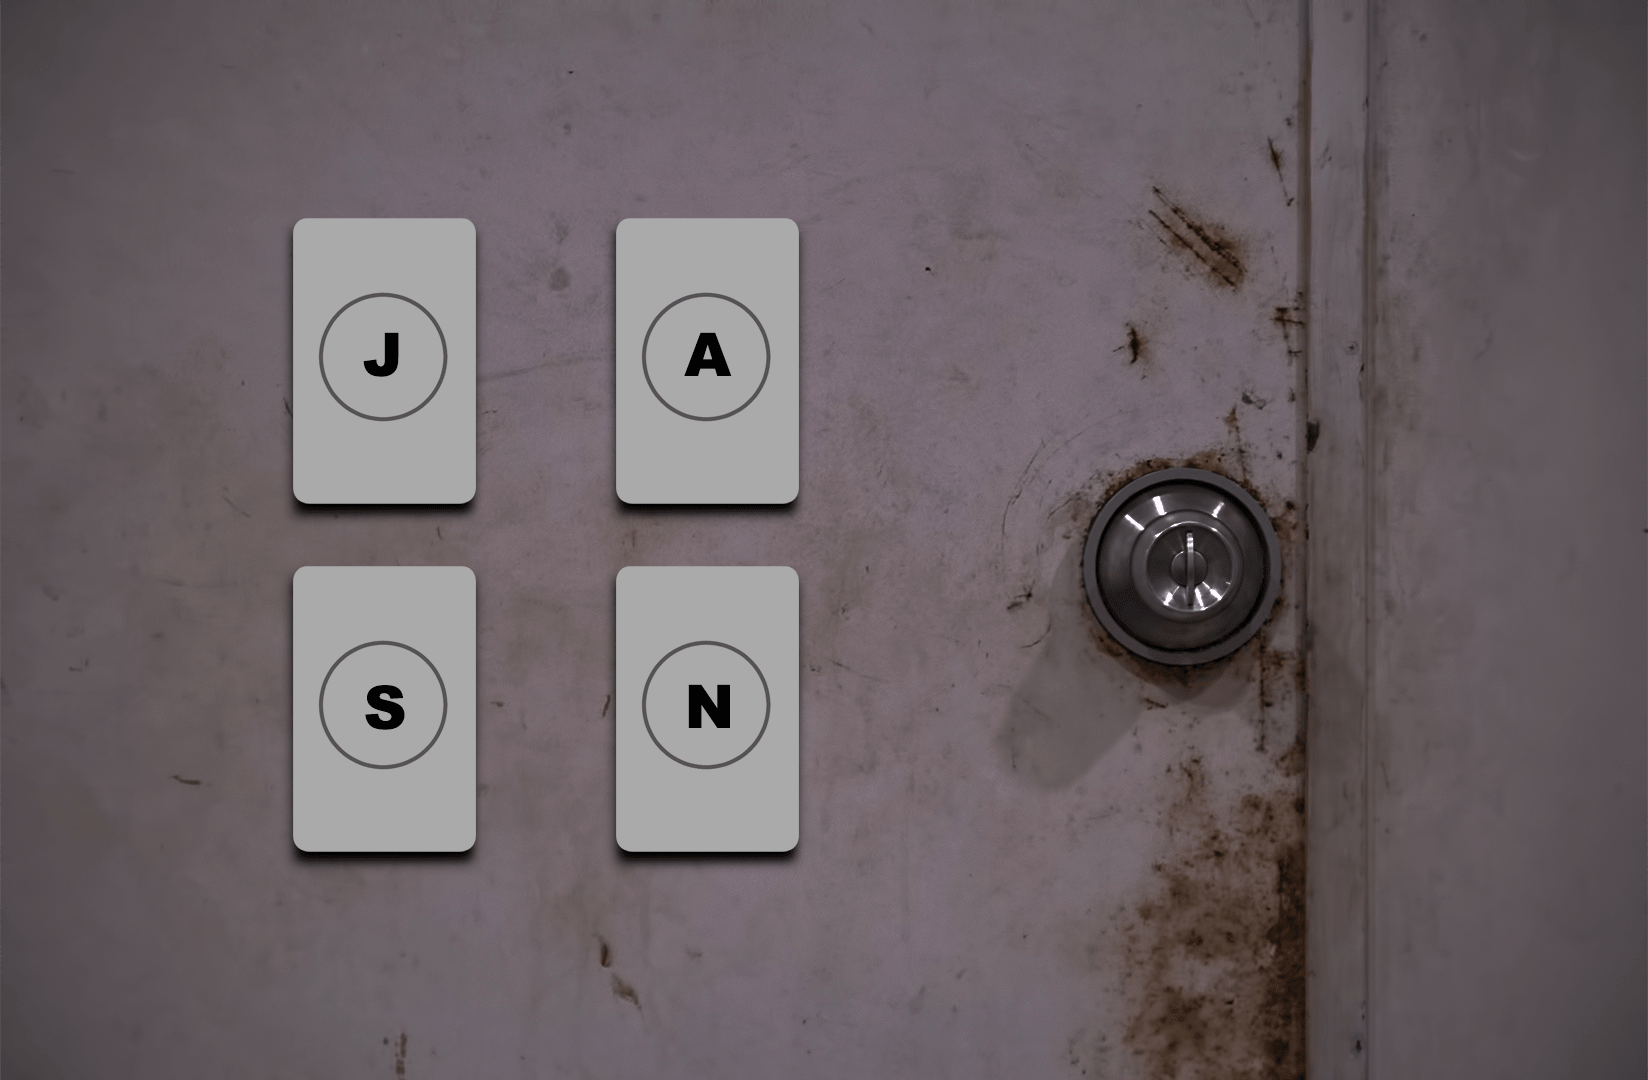
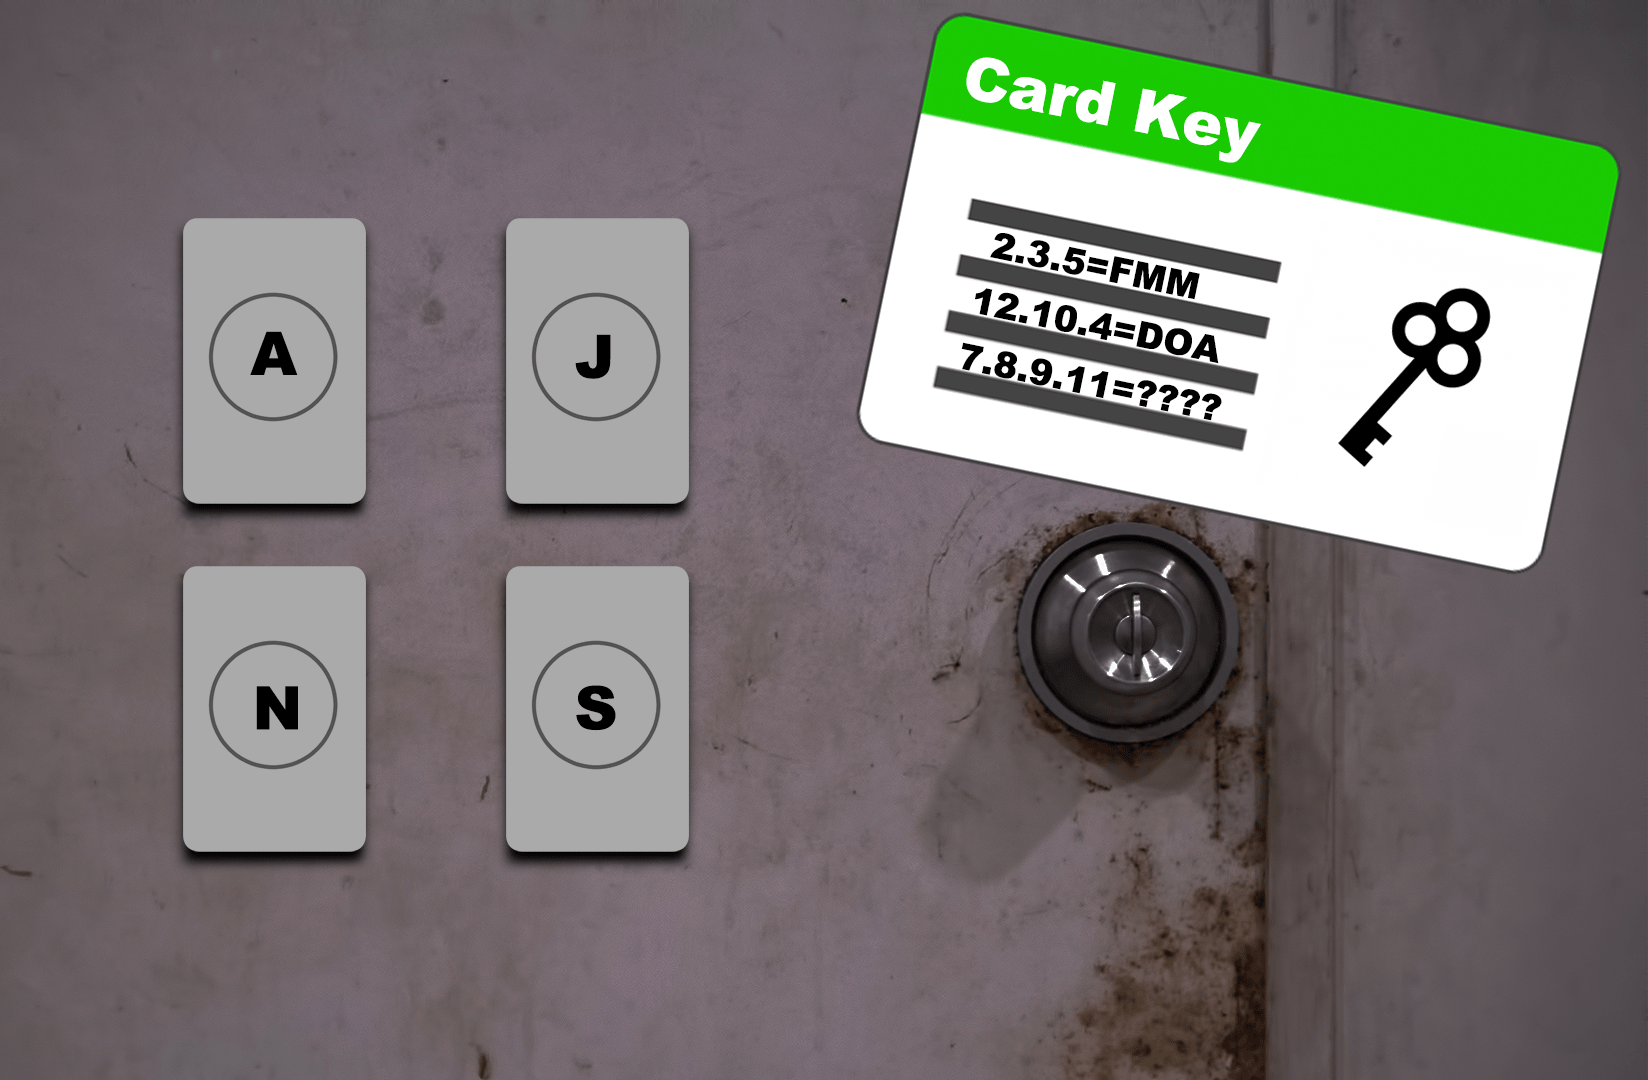
stage4の変更

diff --git a/main.html b/main.html
@@ -306,7 +306,8 @@ STAGE3-3追加　ここまで -->
             <h2 class="section-title section-title--keycolorlight"><span class="section-title__stage">STAGE：4</span>大広間の扉を開けろ！</h2>
             <p class="text-center">ドン&nbsp;&nbsp;&nbsp;ドン&nbsp;&nbsp;ドン&nbsp;ドン・・・<br>
             怪獣の音が近づいている。早く脱出しないと！<br>
-            大広間の扉の開錠装置はカードキーで開くようだ。</p>
+            大広間の扉の開錠装置はカードキーで開くようだ。<br>
+            6択から答えを選ぼう</p>
             <figure class="image__container">
               <img src="assets/images/stage4.png" alt="">
             </figure>
@@ -323,6 +324,7 @@ STAGE3-3追加　ここまで -->
               v-on:answer-input="answerInput($event, 'stage3', 1, 'final')" は送信ボタンをクリックした時の動作を決める関数です。
               4番目の引数 'final' は最終ステージを表します。
             ------------------------------------------------------------------------------------------------------------------>
+            <p class="text-center">①AJSN　②ANSJ　③ASNJ　④JNSA　⑤JASN　⑥JSAN</p>
             <answer-input v-bind:correct="correctAnswer['stage4']['q1']" v-on:answer-input="answerInput($event, 'stage4', 1, 'final')"></answer-input>
             <a class="link-hint" href="hint4.html" target="hint4">ヒントをみる ></a>
           </div>

diff --git a/hint4.html b/hint4.html
@@ -63,7 +63,7 @@
           <div class="column">
             <div class="card">
               <h3 class="card__title">答え<svg class="card__arrow"><use xlink:href="#arrow"></use></svg></h3>
-              <p class="card__content">78911</p>
+              <p class="card__content">5</p>
             </div>
 
  <!-- 4-2答え追加

diff --git a/assets/js/main.js b/assets/js/main.js
@@ -31,7 +31,7 @@ const app = Vue.createApp({
           // q3: 'ききき',
         },
         stage4: {
-          q1: '78911',
+          q1: '5',
         }
       },
 
